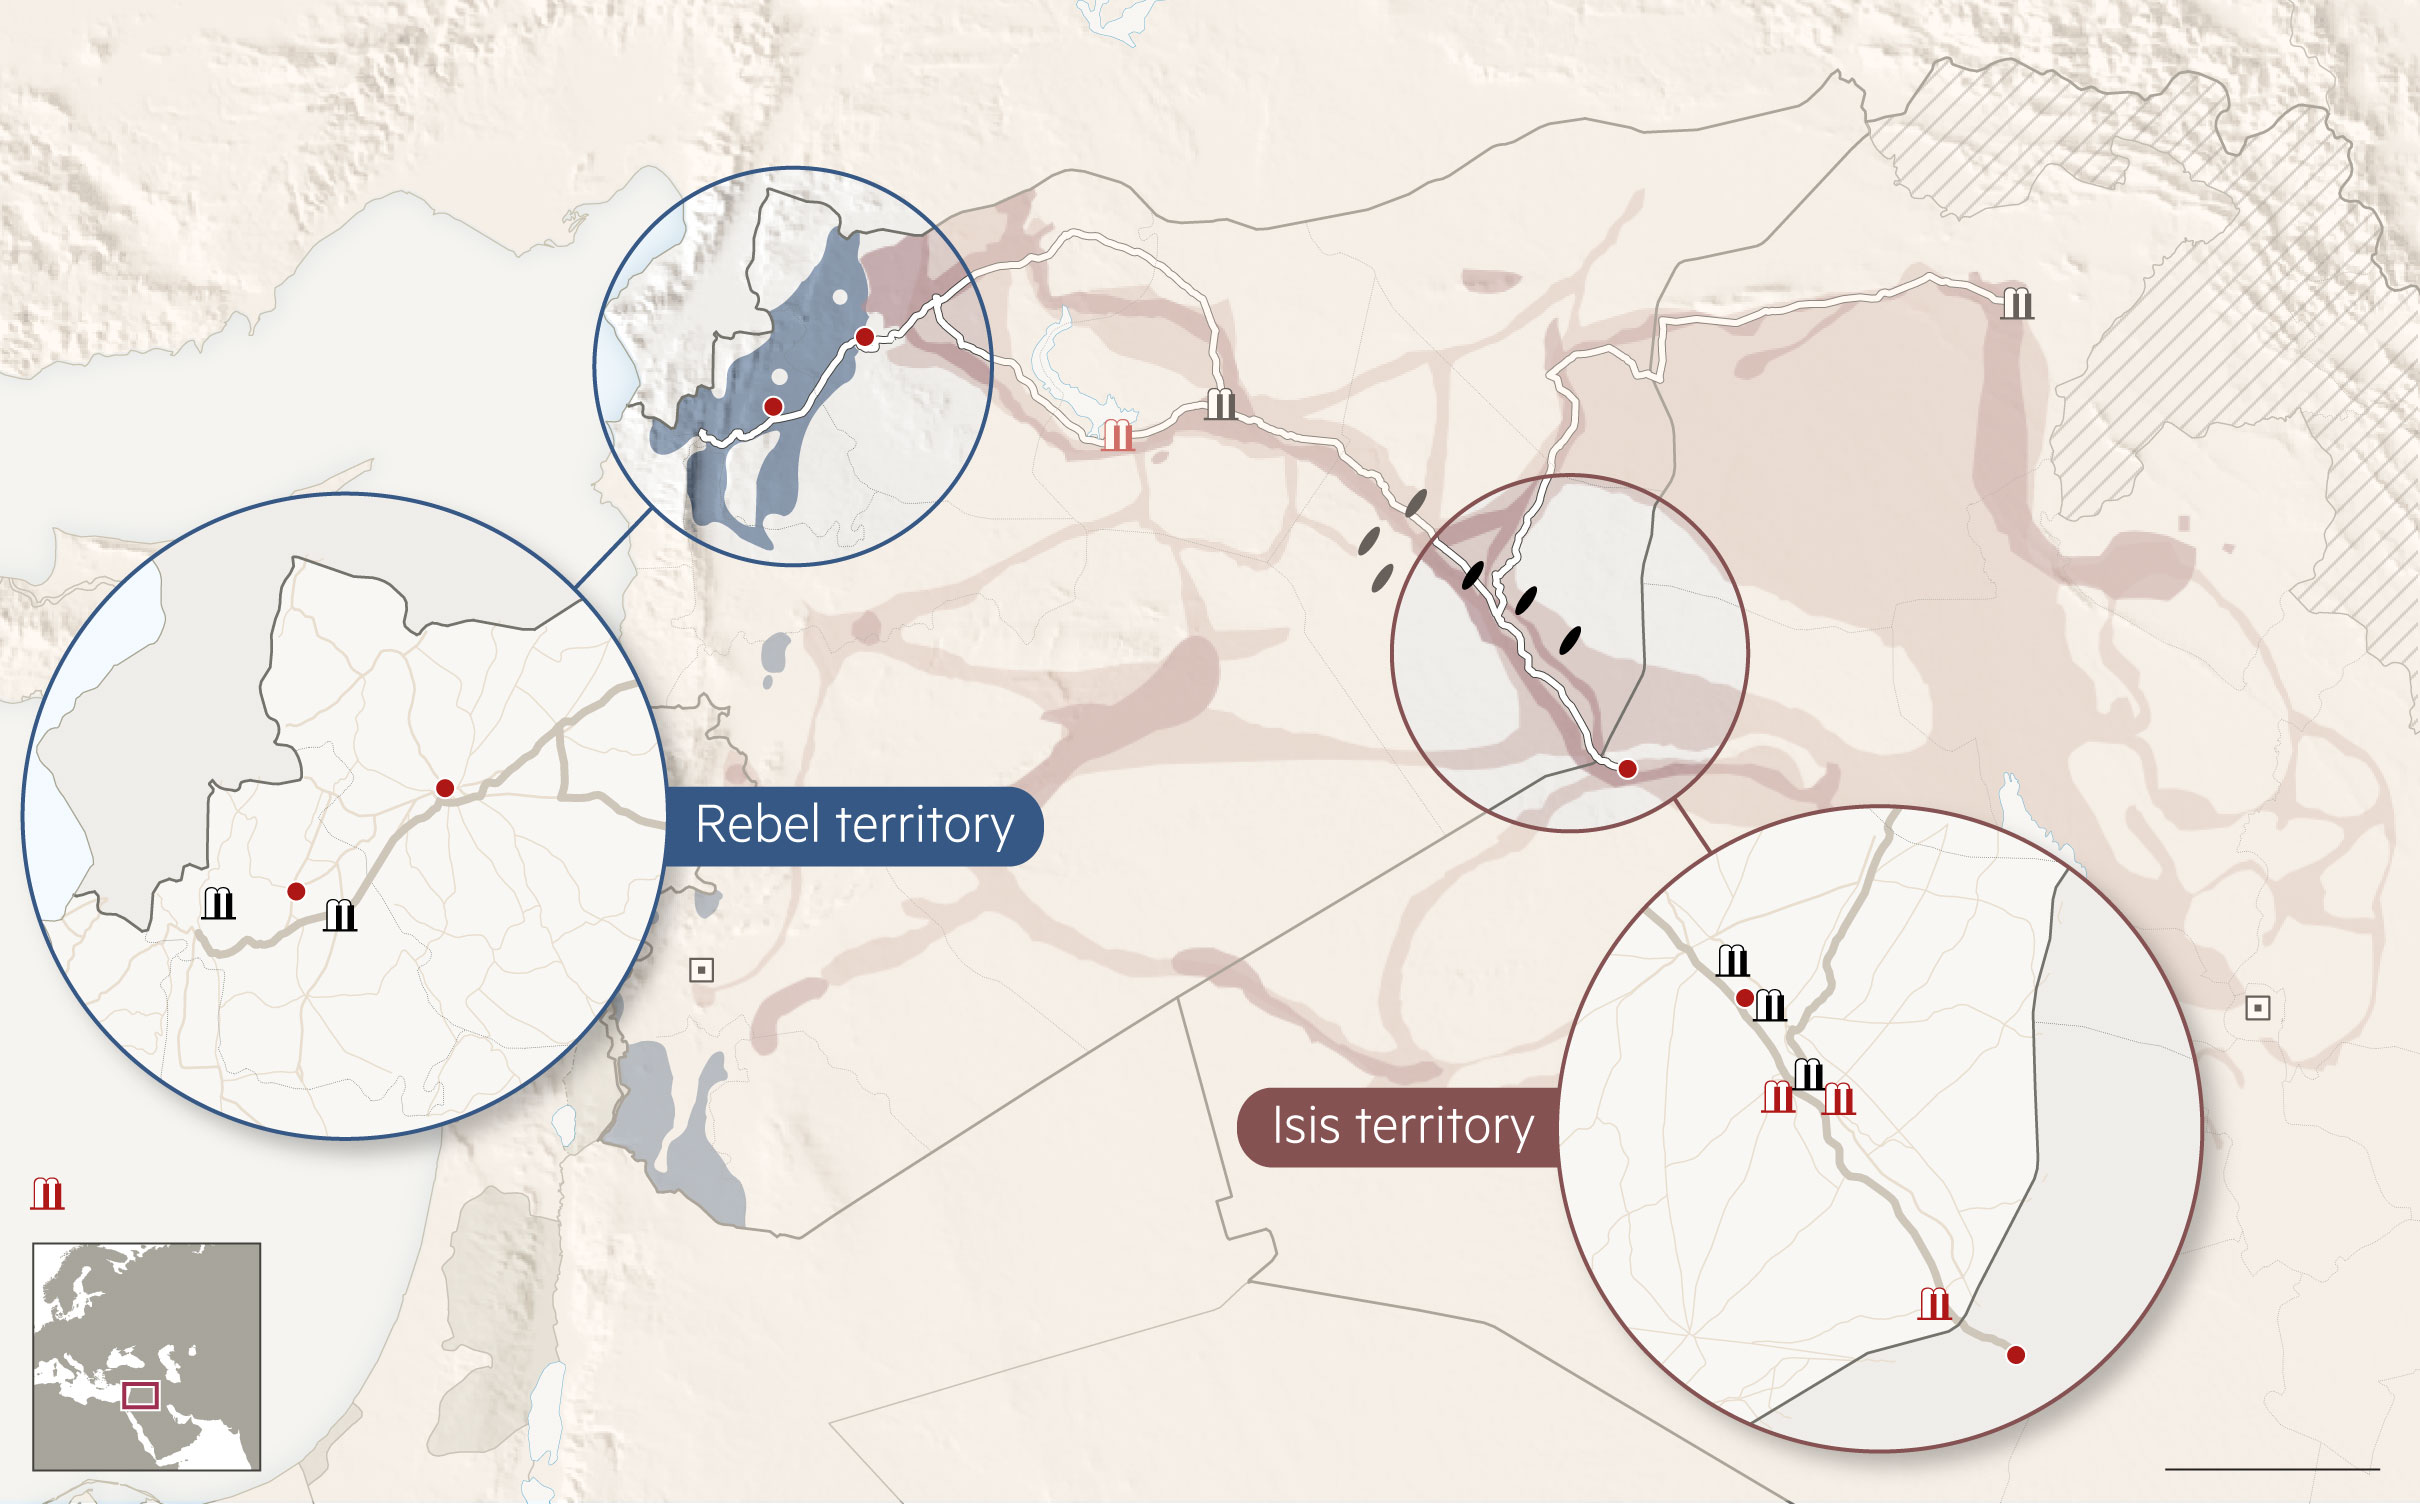
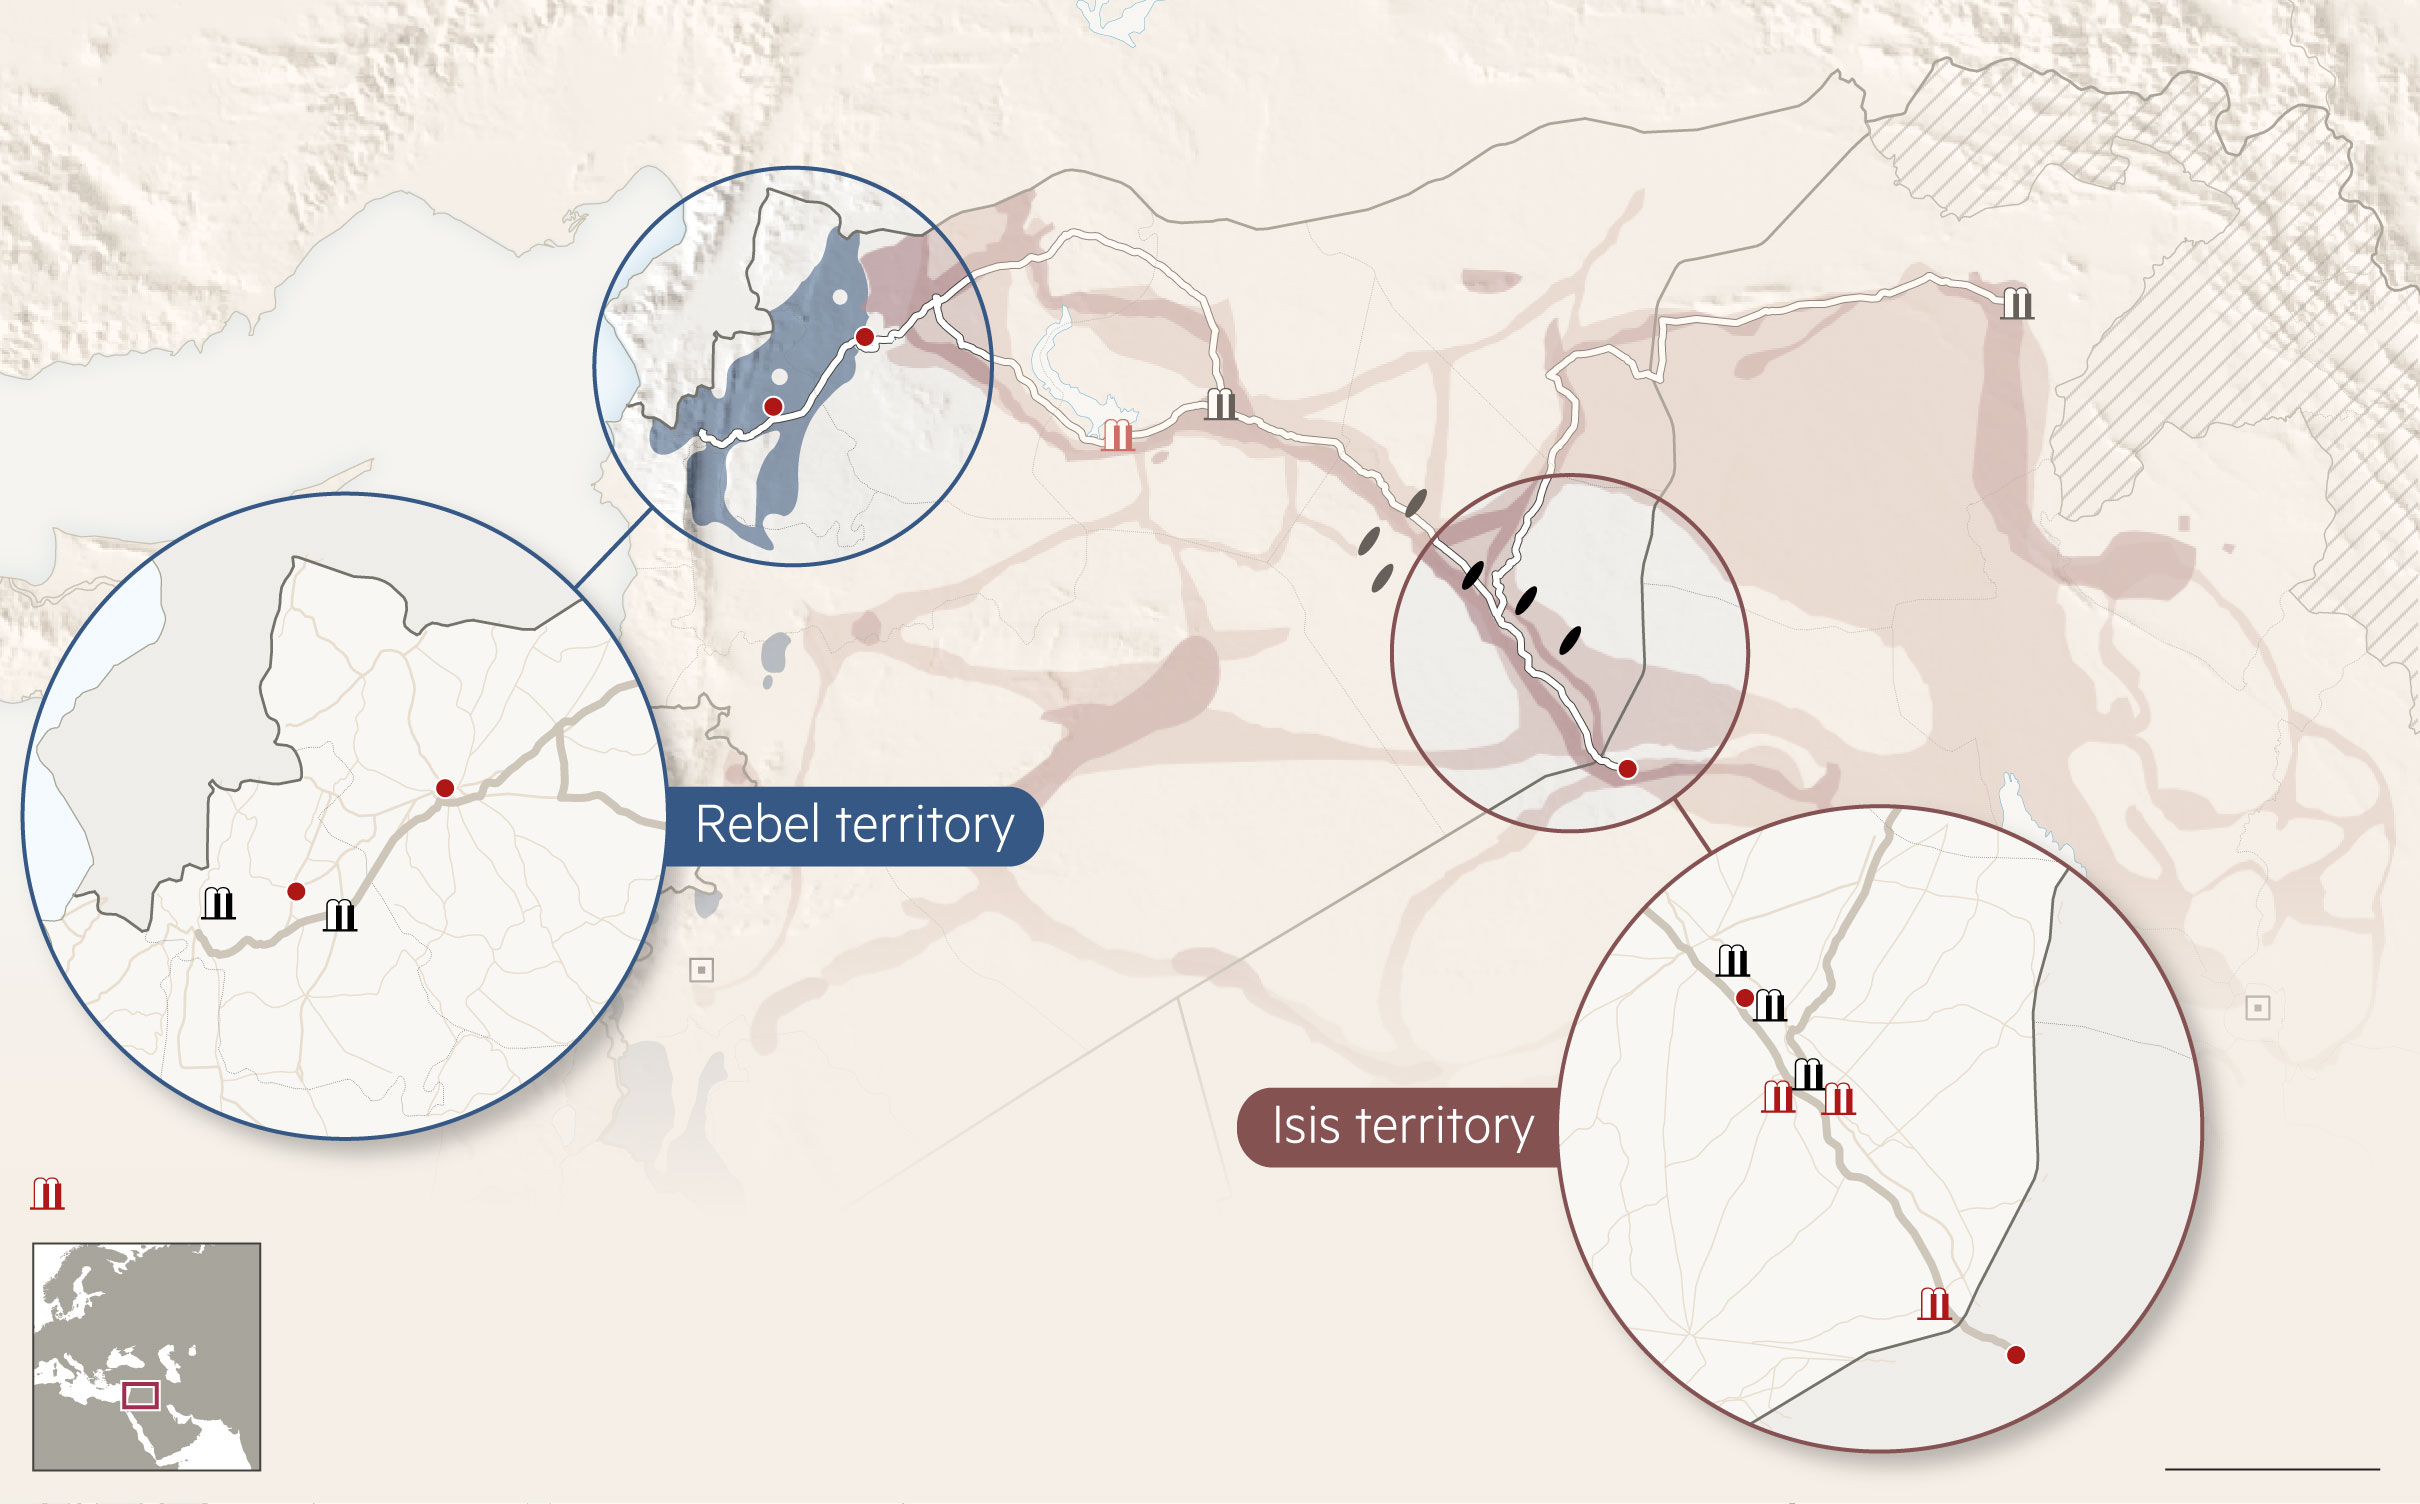
style list items

diff --git a/client/index.html b/client/index.html
@@ -1340,17 +1340,11 @@
           <div id='ig-ai0-27' class='ig-l-xl ig-ai-abs' style='top:78%;left:4.0283%;'>
             <p class='ig-ai-pstyle7'>Recently bought by Isis</p>
           </div>
-          <div id='ig-ai0-28' class='ig-l-xl ig-ai-abs' style='top:84.0109%;left:39.9389%;width:6.6960%;margin-left:-3.3480%;'>
-            <p class='ig-ai-pstyle0'>Jordan</p>
-          </div>
           <div id='ig-ai0-29' class='ig-l-xl ig-ai-abs' style='top:85.8719%;right:21.5361%;'>
             <p class='ig-ai-pstyle12'>al-Bukamal</p>
           </div>
           <div id='ig-ai0-30' class='ig-l-xl ig-ai-abs' style='top:90.3914%;right:17.2032%;'>
             <p class='ig-ai-pstyle4'>al-Qaim</p>
-          </div>
-          <div id='ig-ai0-31' class='ig-l-xl ig-ai-abs' style='top:92.5183%;left:54.1644%;width:11.5322%;margin-left:-5.7661%;'>
-            <p class='ig-ai-pstyle0'>Saudi Arabia</p>
           </div>
           <div id='ig-ai0-32' class='ig-l-xl ig-ai-abs' style='top:95.7086%;left:89.4803%;'>
             <p class='ig-ai-pstyle14'>100km</p>
@@ -2721,7 +2715,7 @@
         <div id='ig-smuggling-default-graphic'>
           <img id='ig-ai2-0'
             class='ig-ai-img'
-            src='/images/smuggling-default.png'
+            src='images/smuggling-default.png'
             />
           <div id='ig-ai2-1' class='ig-default ig-ai-abs' style='top:1.0864%;left:81.7695%;'>
             <p class='ig-ai-pstyle0'>20km</p>

diff --git a/client/styles/main.scss b/client/styles/main.scss
@@ -116,7 +116,7 @@ main p,
     text-align: center;
     color: #333333;
     font-weight: 600;
-
+  
     &:before {
       display: block;
       background-size: 200px 60px;
@@ -134,8 +134,26 @@ main p,
       content: counter(sections);
       counter-increment: sections;
     }
+  }
+  > ul {
+    max-width: 600px;
+    margin: 1.5em auto;
+    padding: 10px 10px 10px 40px;
+    border-top: 1px solid oColorsGetPaletteColor('pink-tint4');
+    border-bottom: 1px solid oColorsGetPaletteColor('pink-tint4');
+    box-sizing: border-box;
 
-
+    > li {
+      list-style: list-item;
+      margin-bottom: 10px;
+      color: oColorsGetPaletteColor('grey-tint3');
+      font-size: 1.1rem;
+      line-height: 1.4em;
+      font-weight: 200;
+      &:last-child{
+        margin-bottom: 0;
+      }
+    }
   }
 }
 
